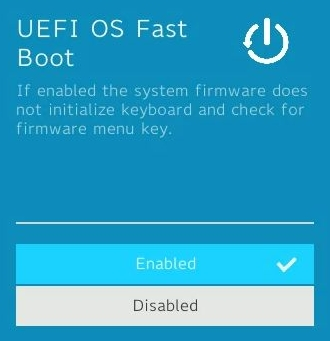
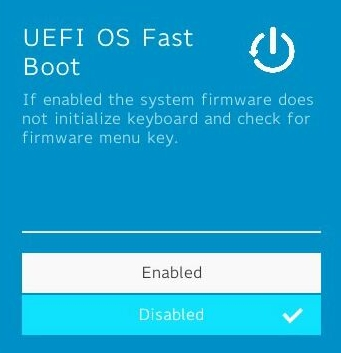
所有動作執行改為判定到指定畫面後執行

diff --git a/GUI_Ctrl.py b/GUI_Ctrl.py
@@ -117,7 +117,9 @@ class ClientController:
 
     def press_and_release(self, press_Key, delay: float=0, do: int=1):
         for i in range(do,0,-1):
-            self.keyboard.tap(press_Key)
+            #self.keyboard.tap(press_Key)
+            self.keyboard.press(press_Key)
+            self.keyboard.release(press_Key)
             time.sleep(delay) 
 
     def fast_boot_close(self):
@@ -132,21 +134,30 @@ class ClientController:
         #select fast os boot
         self.press_and_release(Key.down,delay=0.5,do=10)
         #判斷是否需要設定
-        path = self.get_path.get_image_path("fast_boot_disable")
-        #self.wait_for_image(path,confidence=0.9,delay=0.1)
+        path = self.get_path.get_image_path("fast_boot")
+        time.sleep(1)
+        self.wait_for_image(path,confidence=0.9,delay=0.1)
+        time.sleep(1)        
+        self.press_and_release(Key.enter,delay=0.5)
         try:
-            locate = pyautogui.locateOnScreen(path, confidence=0.9)
+            locate = pyautogui.locateOnScreen(self.get_path.get_image_path("fast_boot_enable"), confidence=0.9)
+           
             if locate is not None:
-                self.press_and_release(Key.f10,delay=0.5)
-                self.press_and_release(Key.enter,delay=0.5)
+                
+                self.press_and_release(Key.esc,     delay=0.5)
+                self.press_and_release(Key.f10,     delay=0.5)
+                self.press_and_release(Key.enter,   delay=0.5)  
+
             else:
-                self.press_and_release(Key.enter,delay=0.5)
-                self.press_and_release(Key.down,delay=0.5)
-                self.press_and_release(Key.enter,delay=0.5)
-                self.press_and_release(Key.f10,delay=0.5)
-                self.press_and_release(Key.enter,delay=0.5)
-        except pyautogui.ImageNotFoundException:
-                 pass
+                self.press_and_release(Key.down,    delay=0.5)
+                self.press_and_release(Key.enter,   delay=0.5)
+                self.press_and_release(Key.f10,     delay=0.5)
+                self.press_and_release(Key.enter,   delay=0.5)                             
+                
+
+        except Exception as e:
+            # 捕捉所有其他未預期的例外
+            print(f"Unhandled error: {e}")
         #press ESC restart UEFI
         time.sleep(1)
         start = time.time()
@@ -155,37 +166,53 @@ class ClientController:
                 locate = pyautogui.locateOnScreen(self.get_path.get_image_path("esc"),confidence=0.8)
                 if locate is None:
                     self.press_and_release(Key.esc,delay=0.1)
-                    print('in 143 line')
+                    
                 else:
                     print('release')
                     break
-            except pyautogui.ImageNotFoundException:
+            except Exception as e:
+              
                 pass
             if time.time()-start > 20 :
                 print('times up,stop press esc key')
                 break
     
     def select_usb_device(self):
-        time.sleep(1)
+        self.wait_for_image(self.get_path.get_image_path("boot_manager"))
         try:
             locate = pyautogui.locateOnScreen(self.get_path.get_image_path("usb_device"),confidence=0.8)
-            
+            pyautogui.screenshot("usb_device.png",locate)
             if locate is not None:
                 time.sleep(1)
                 self.press_and_release(Key.down,delay=0.1)
-                self.press_and_release(Key.enter,delay=2)
                 self.press_and_release(Key.enter)
-                
+                self.wait_for_image(self.get_path.get_image_path("press_enter"),
+                                    confidence=0.6,
+                                    timeout=10,
+                                    action=lambda:self.press_and_release(Key.enter))
             else:
                 #mount iso again & select device
                 self.mount_iso(self.type)
                 time.sleep(5)
                 self.press_and_release(Key.down,delay=0.1)
-                self.press_and_release(Key.enter,delay=2)
-                self.press_and_release(Key.enter)   
-                    
+                self.press_and_release(Key.enter)
+                self.wait_for_image(self.get_path.get_image_path("press_enter"),
+                                    confidence=0.6,
+                                    timeout=10,
+                                    action=lambda:self.press_and_release(Key.enter))    
         except pyautogui.ImageNotFoundException:
             pass
+
+    def re_mount(self):
+        time.sleep(5)
+        self.press_and_release(Key.enter, delay=0.1)
+        self.wait_for_image(self.get_path.get_image_path("UEFI"))
+        self.mount_iso(self.type)
+        #enter boot manager
+        
+        self.press_and_release(Key.right, delay=0.1)
+        self.press_and_release(Key.enter, delay=0.1)
+        self.select_usb_device()
 
     def UEFI(self):
         """
@@ -194,6 +221,7 @@ class ClientController:
 
         :param type: 客戶端類型(windows/java)
         """
+        self.wait_for_image(self.get_path.get_image_path("UEFI"))
         self.fast_boot_close()
         self.wait_for_image(self.get_path.get_image_path("UEFI"))
         #enter boot manager
@@ -202,19 +230,14 @@ class ClientController:
         self.wait_for_image(self.get_path.get_image_path("boot_manager"))
 
         self.select_usb_device()
-
-        def re_mount():
-            self.mount_iso(self.type)
-            self.press_and_release(Key.enter, delay=0.1)
-            #enter boot manager
-            self.press_and_release(Key.right, delay=0.1)
-            self.press_and_release(Key.enter, delay=0.1)
-            self.select_usb_device()
-        self.wait_for_image(self.get_path.get_image_path("boot_failed"),timeout=20,action=re_mount)
+        self.wait_for_image(self.get_path.get_image_path("boot_failed"),
+                            timeout=20,
+                            action=self.re_mount)
         
   
                 
-    def wait_for_image(self, image_path: str, confidence: float=0.8, timeout: int=60, action: callable=None,repeat: bool=False,delay: float=1):
+    def wait_for_image(self, image_path: str, confidence: float=0.8, 
+                       timeout: int=60, action: callable=None, repeat: bool=False, delay: float=1):
         """
         等待圖片出現在螢幕上並執行指定動作 (action):
         在 `timeout` 秒內反覆檢查螢幕是否出現指定圖片。若圖片找到並指定 `action`，
@@ -226,35 +249,41 @@ class ClientController:
         :param action: 找到圖片後執行的動作函數 
         :param repeat: 是否在圖片多次出現時重複執行動作，預設為 False
         :param delay: 預設 1 秒
+
         :return: 成功找到並執行動作則返回 True，否則返回 False
         """
         start_time = time.time()
+        # print(image_path[55:])
+
         while True:
             try:
-                time.sleep(0.1)
+                time.sleep(0.5)  # 增加檢查間隔，減少頻繁檢查
                 location = pyautogui.locateOnScreen(image_path, confidence=confidence)
-                if location is not None:
+                if location is not None :
                     # 如果有指定動作，則執行
                     if action:
+                        # print('do', image_path[53:])
                         action()
-                        
+                        # print('end', image_path[53:])
                         try:
+                            time.sleep(0.3)
                             location = pyautogui.locateOnScreen(image_path, confidence=confidence)
-                            print("246")
+                            # print('locate', image_path[53:])
                             if location is None:
                                 # 圖片消失後跳出迴圈
                                 break
                         except pyautogui.ImageNotFoundException:
-                            break   
-                    if not repeat:  
-                        return True  
+                            break
+                    if not repeat:
+                        return True
+                # 計算已經過時間
+                elapsed_time = time.time() - start_time
+                print(f"\r Waiting . . . {int(elapsed_time)} sec", image_path, end="")
+                if elapsed_time >= timeout:
+                    print("\nTimeout:", image_path, "not found.")
+                    # 如果超時且圖片未找到，則返回 False，避免執行動作
+                    return False
+                # 延遲，避免頻繁檢查
+                time.sleep(delay)
             except pyautogui.ImageNotFoundException:
                 pass
-            # 計算已經過時間
-            elapsed_time = time.time() - start_time
-            print(f"\r Waiting . . . {int(elapsed_time)} sec",image_path, end="")
-            if elapsed_time >= timeout:
-                print("\nTimeout:" ,image_path ,"not found.")
-                return False
-            # 延遲，避免頻繁檢查
-            time.sleep(delay)

diff --git a/JavaClient.py b/JavaClient.py
@@ -78,17 +78,18 @@ class AutoInstaller:
 
         # 點擊各個圖片元素
         time.sleep(2)
-        def dropdown():
-            self.gui_ctrl.locate_and_click(1, dropdown_img, confidence=0.9,delay=0)
-            
+        def dropdown():# 反覆點擊 dropdown 直到圖片消失
+            self.gui_ctrl.locate_and_click(1, dropdown_img, confidence=0.9)
         self.gui_ctrl.wait_for_image(dropdown_img,action=dropdown,repeat=True)
 
-        self.gui_ctrl.locate_and_click(1, pin_img, confidence=0.8, delay=2)
-        
-        # 反覆點擊 viewer 直到圖片消失
-        def click_viewer():
+        def pin():# 反覆點擊 pin 直到圖片消失
+            self.gui_ctrl.locate_and_click(1, pin_img, confidence=0.8, delay=2)
+        self.gui_ctrl.wait_for_image(pin_img,action=pin,repeat=True)      
+
+        def click_viewer():# 反覆點擊 viewer 直到圖片消失
             self.gui_ctrl.locate_and_click(2, viewer_img, confidence=0.8)
         self.gui_ctrl.wait_for_image(viewer_img, action=click_viewer, repeat=True)
+
 
         # 等待進入下一步操作的畫面
         scr_img = self.img_res.get_image_path("scr")
@@ -107,13 +108,11 @@ class AutoInstaller:
         cmd_location = pyautogui.locateOnScreen(cmd_img, confidence=0.8)
         if cmd_location:
             pyautogui.moveTo(pyautogui.center(cmd_location))
+        else:
+            pass
         time.sleep(2)
         self.gui_ctrl.locate_and_click(2, cmd_img, confidence=0.8, delay=1)
 
-        # 釋放 Win 和 Shift 鍵
-        self.keyboard.release(Key.cmd) 
-        self.keyboard.release(Key.shift)
-        time.sleep(3)
 
     def _handle_restart(self):
         """

diff --git a/main.py b/main.py
@@ -7,8 +7,8 @@ import ASCIIART
 import DediProg_CMD
 
 # 初始化自動安裝器，可以選擇 Windows 或 Java 版本
-installer = WindowsClient.AutoInstaller()
-# installer = JavaClient.AutoInstaller() # 使用 Java 安裝器
+# installer = WindowsClient.AutoInstaller()
+installer = JavaClient.AutoInstaller() # 使用 Java 安裝器
 
 # 設置設備控制器，並提供設備的控制端點 URL
 controller = sw.DeviceController("http://192.168.0.211:16628")
@@ -21,10 +21,10 @@ programmer = DediProg_CMD.Programmer(directory, bios_filename, ascii_art)
 
 
 #執行電源和 BIOS 燒錄程序的完整流程
-# controller.ACoffcheck()
-# controller.dp_on()               # 打開 DP
-# programmer.run()                 # 執行 BIOS 燒錄
-# controller.dp_off()              # 關閉 DP
-# controller.cmos_switch()         # 重置 CMOS
-# controller.AConcheck()           # 打開 AC 並檢查狀態
+controller.ACoffcheck()
+controller.dp_on()               # 打開 DP
+programmer.run()                 # 執行 BIOS 燒錄
+controller.dp_off()              # 關閉 DP
+controller.cmos_switch()         # 重置 CMOS
+controller.AConcheck()           # 打開 AC 並檢查狀態
 installer.start_installation()   # 開始安裝操作系統

diff --git a/ImageResource.py b/ImageResource.py
@@ -27,9 +27,11 @@ class ImageResource:
             "wmount": "UI_image/Wmount.jpg",
             "boot_failed": "UI_image/boot_failed.jpg",
             "esc": "UI_image/esc.png",
-            "fast_boot_disable": "UI_image/fast_boot_disable.jpg",
+            "fast_boot": "UI_image/fast_boot_disable.jpg",
+            "fast_boot_enable": "UI_image/fast_boot_disable2.jpg",
             "usb_device": "UI_image/usb_device.jpg",
-            "boot_manager": "UI_image/boot_manager.jpg"
+            "boot_manager": "UI_image/boot_manager.jpg",
+            "press_enter": "UI_image/press_enter.jpg"
         }
 
     def  get_image_path(self, image_name: str) -> str:
